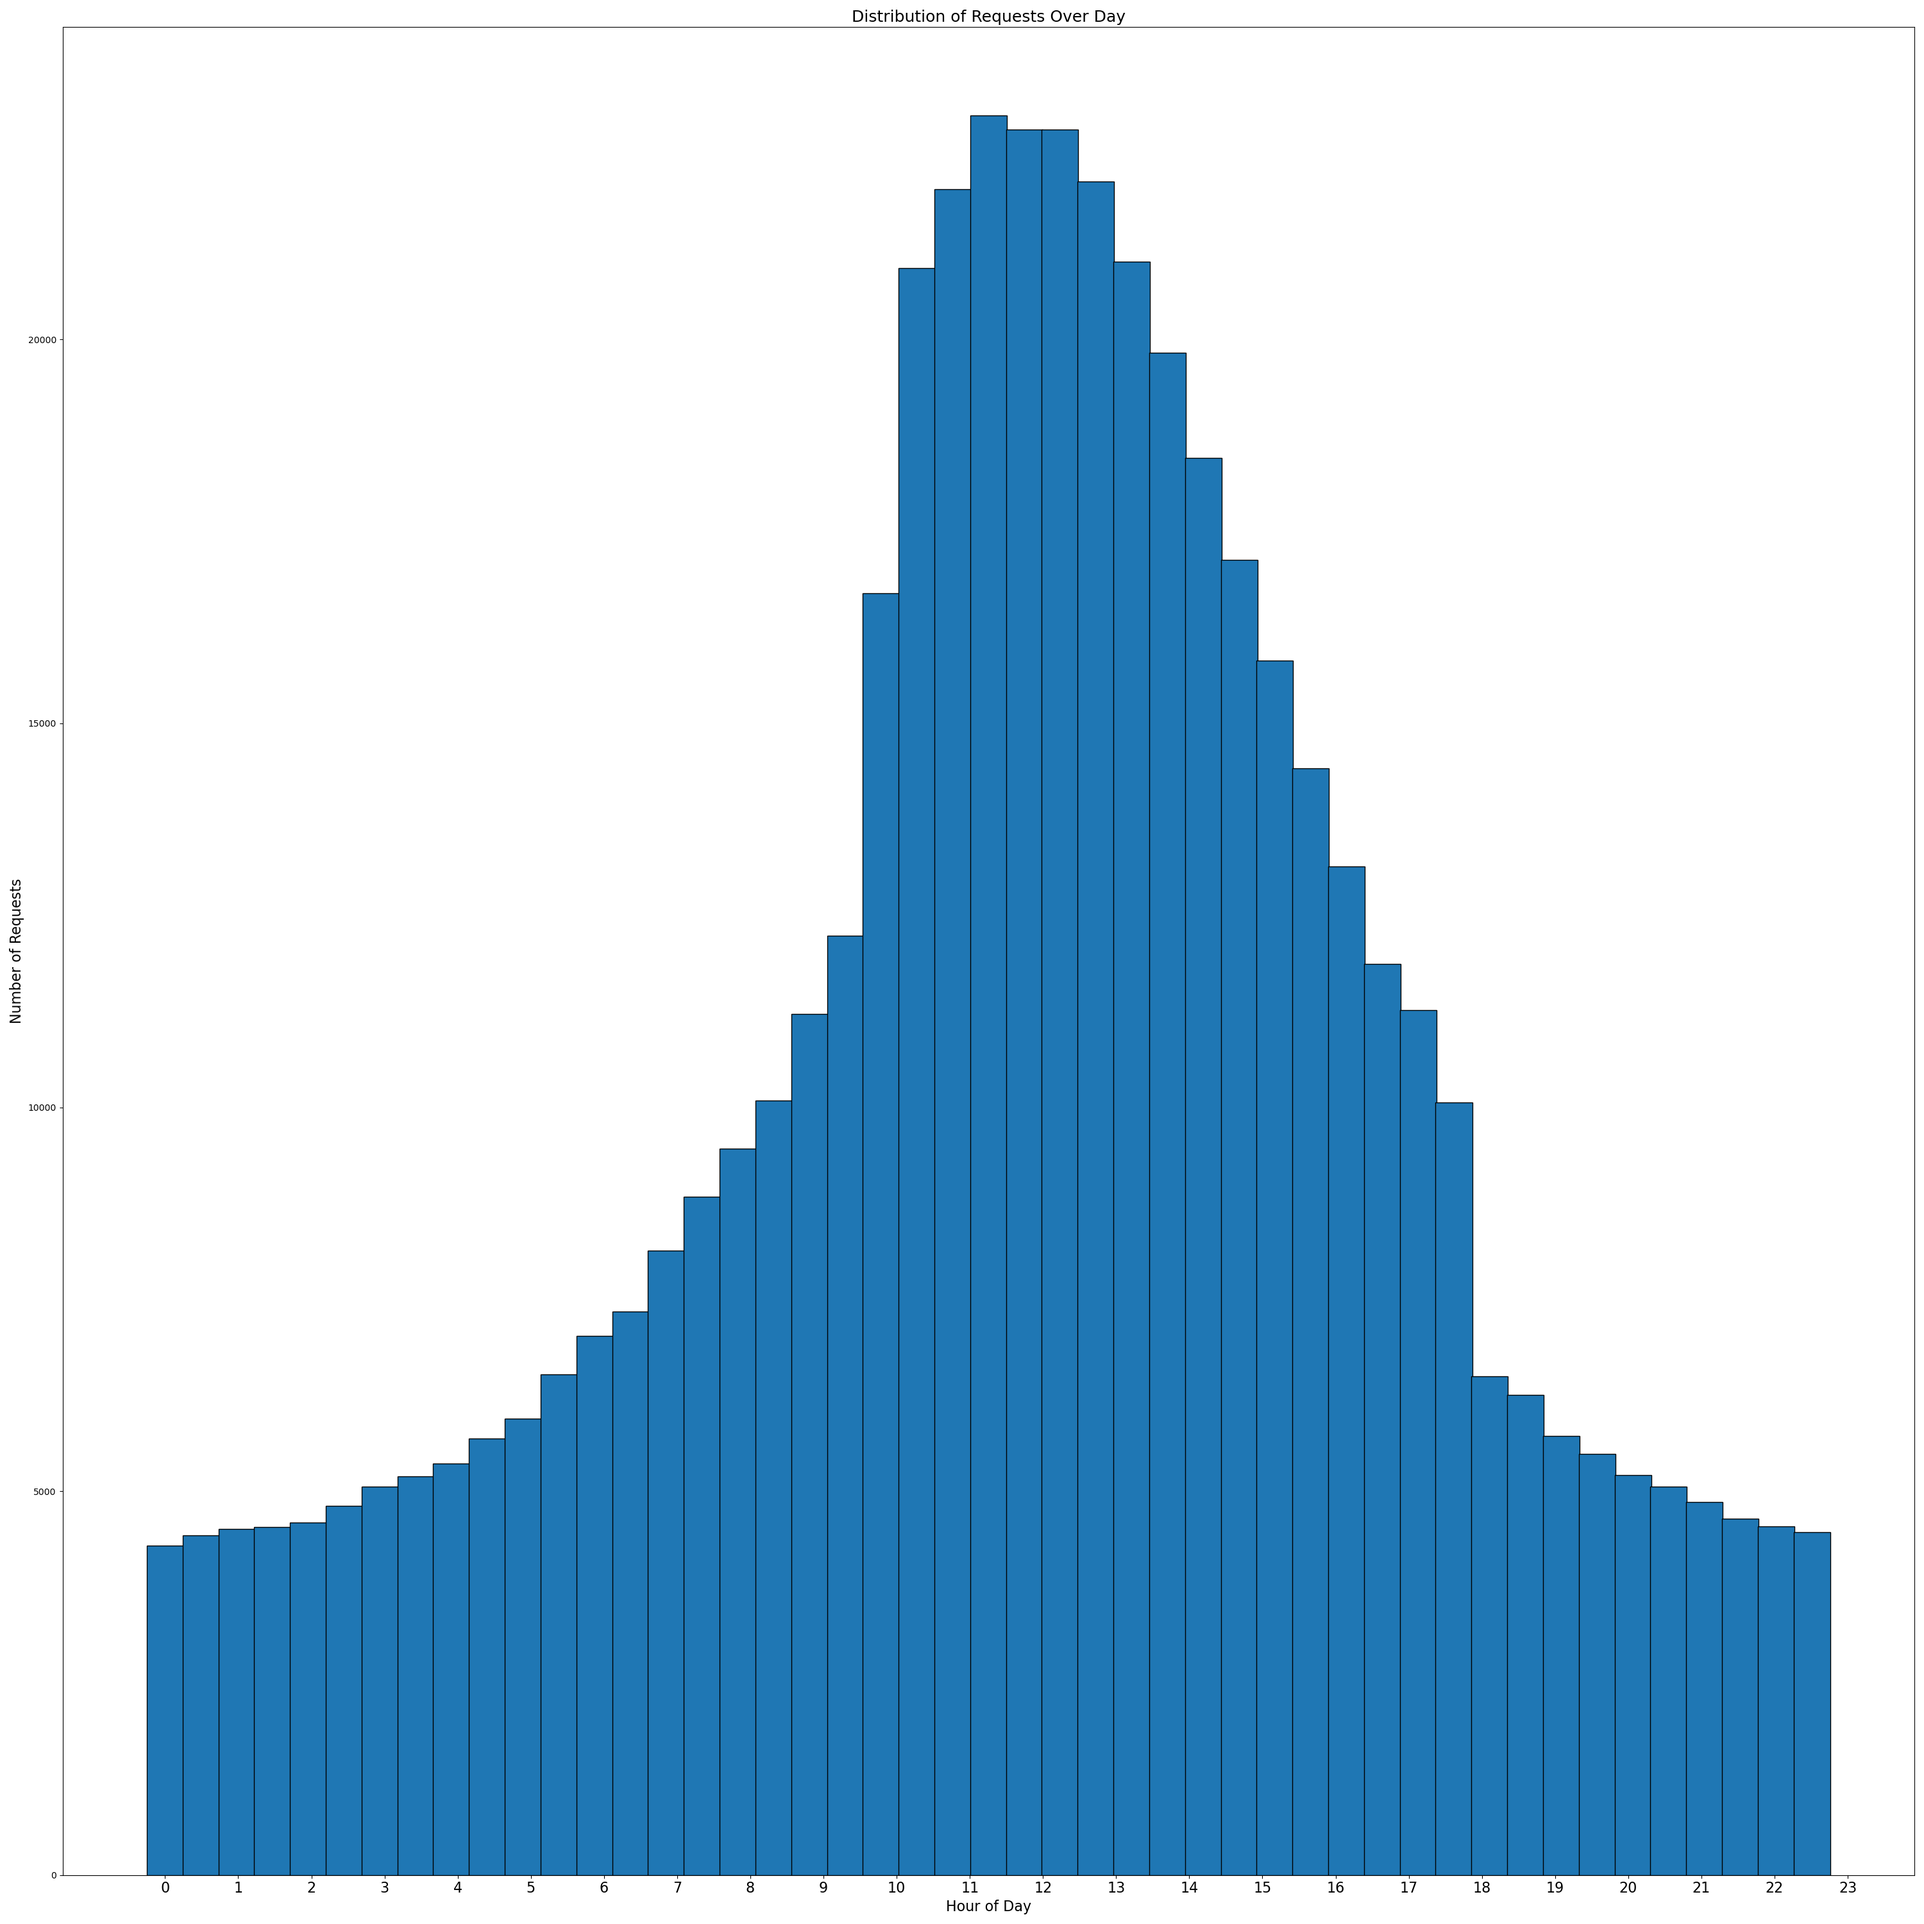
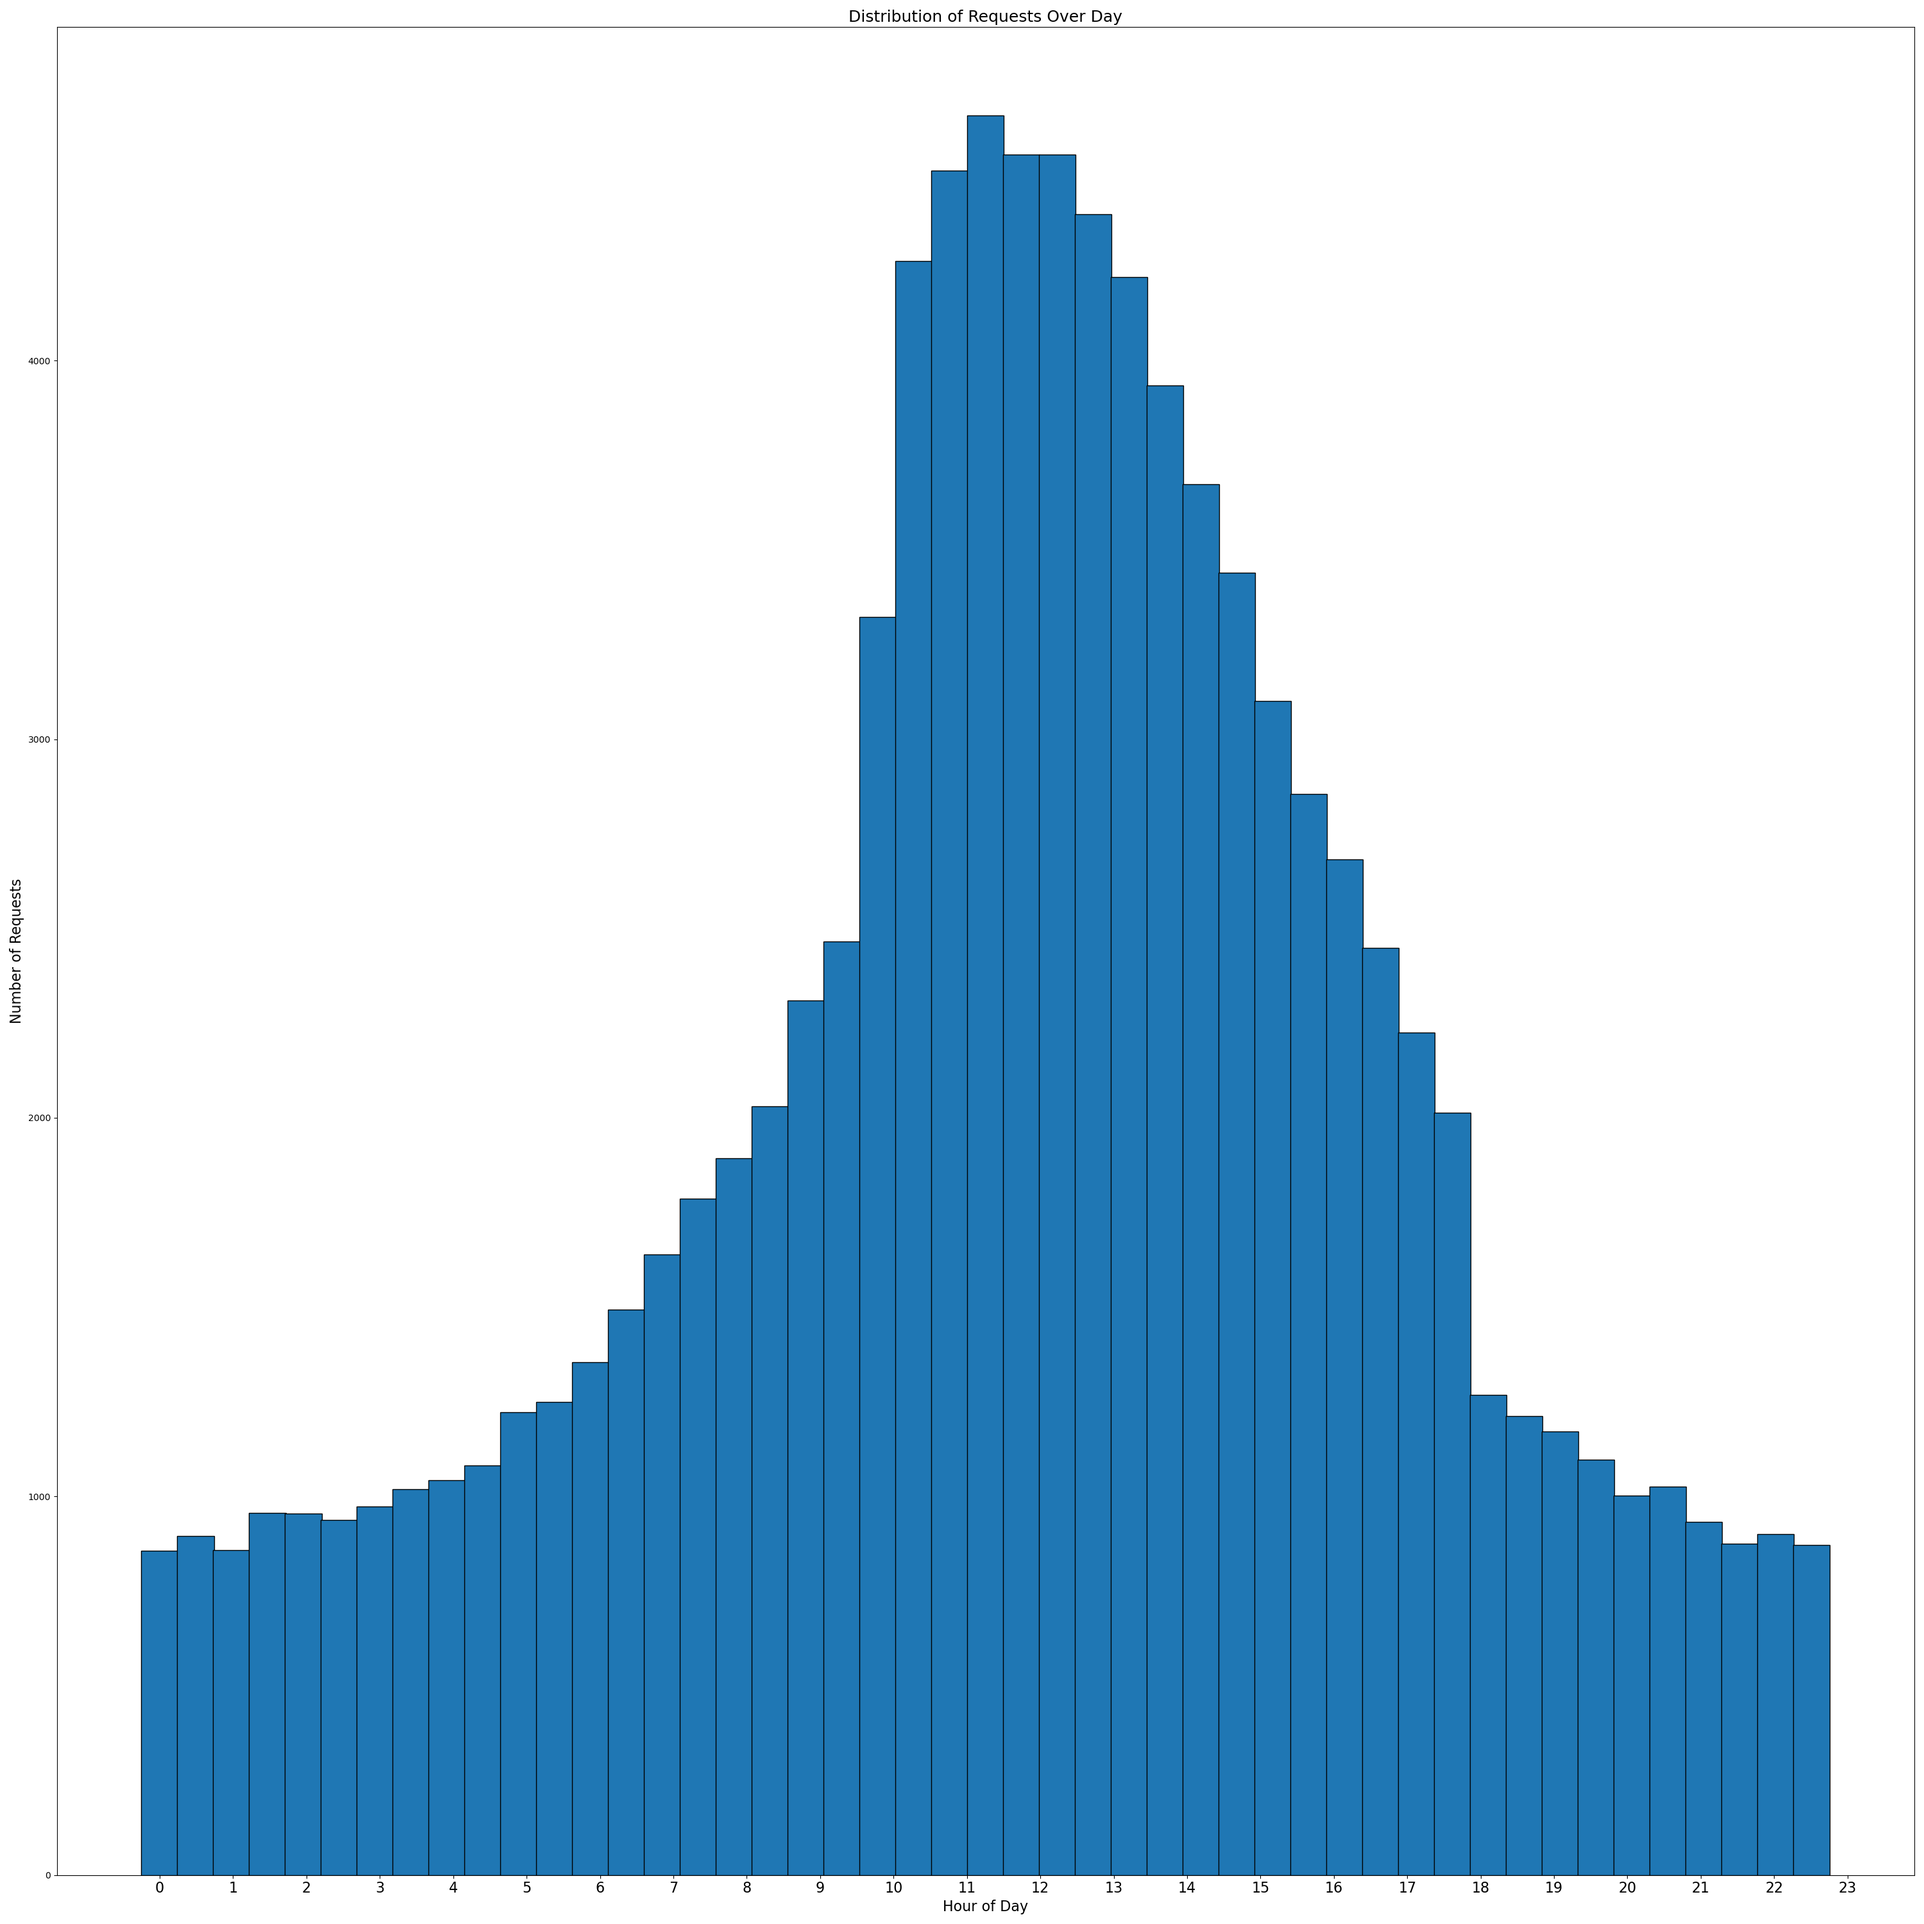
feat: Adjust data generation and logging (main)
- Disable model validation in main.py.
- Change data generation command in dvc.yaml.
- Increase log file backup count in const.py.

diff --git a/src/const.py b/src/const.py
@@ -57,7 +57,7 @@ LOGS_ERROR_FILE_PATH = LOGS_ERROR_DIRECTORY_PATH / "error.log"
 
 LOGS_FILE_PATH = LOGS_DIRECTORY_PATH / "log.log"
 LOGS_FILE_MAX_BYTES = 10_000_000
-LOGS_FILE_BACKUP_COUNT = 100
+LOGS_FILE_BACKUP_COUNT = 1000
 
 
 # ----------------------------

diff --git a/src/main.py b/src/main.py
@@ -23,7 +23,7 @@ def main():
 
     # (2) Data preprocessing
     preprocess_data(config)
-
+    return
     # (3) Model validation
     config = validate_model(config)
 
